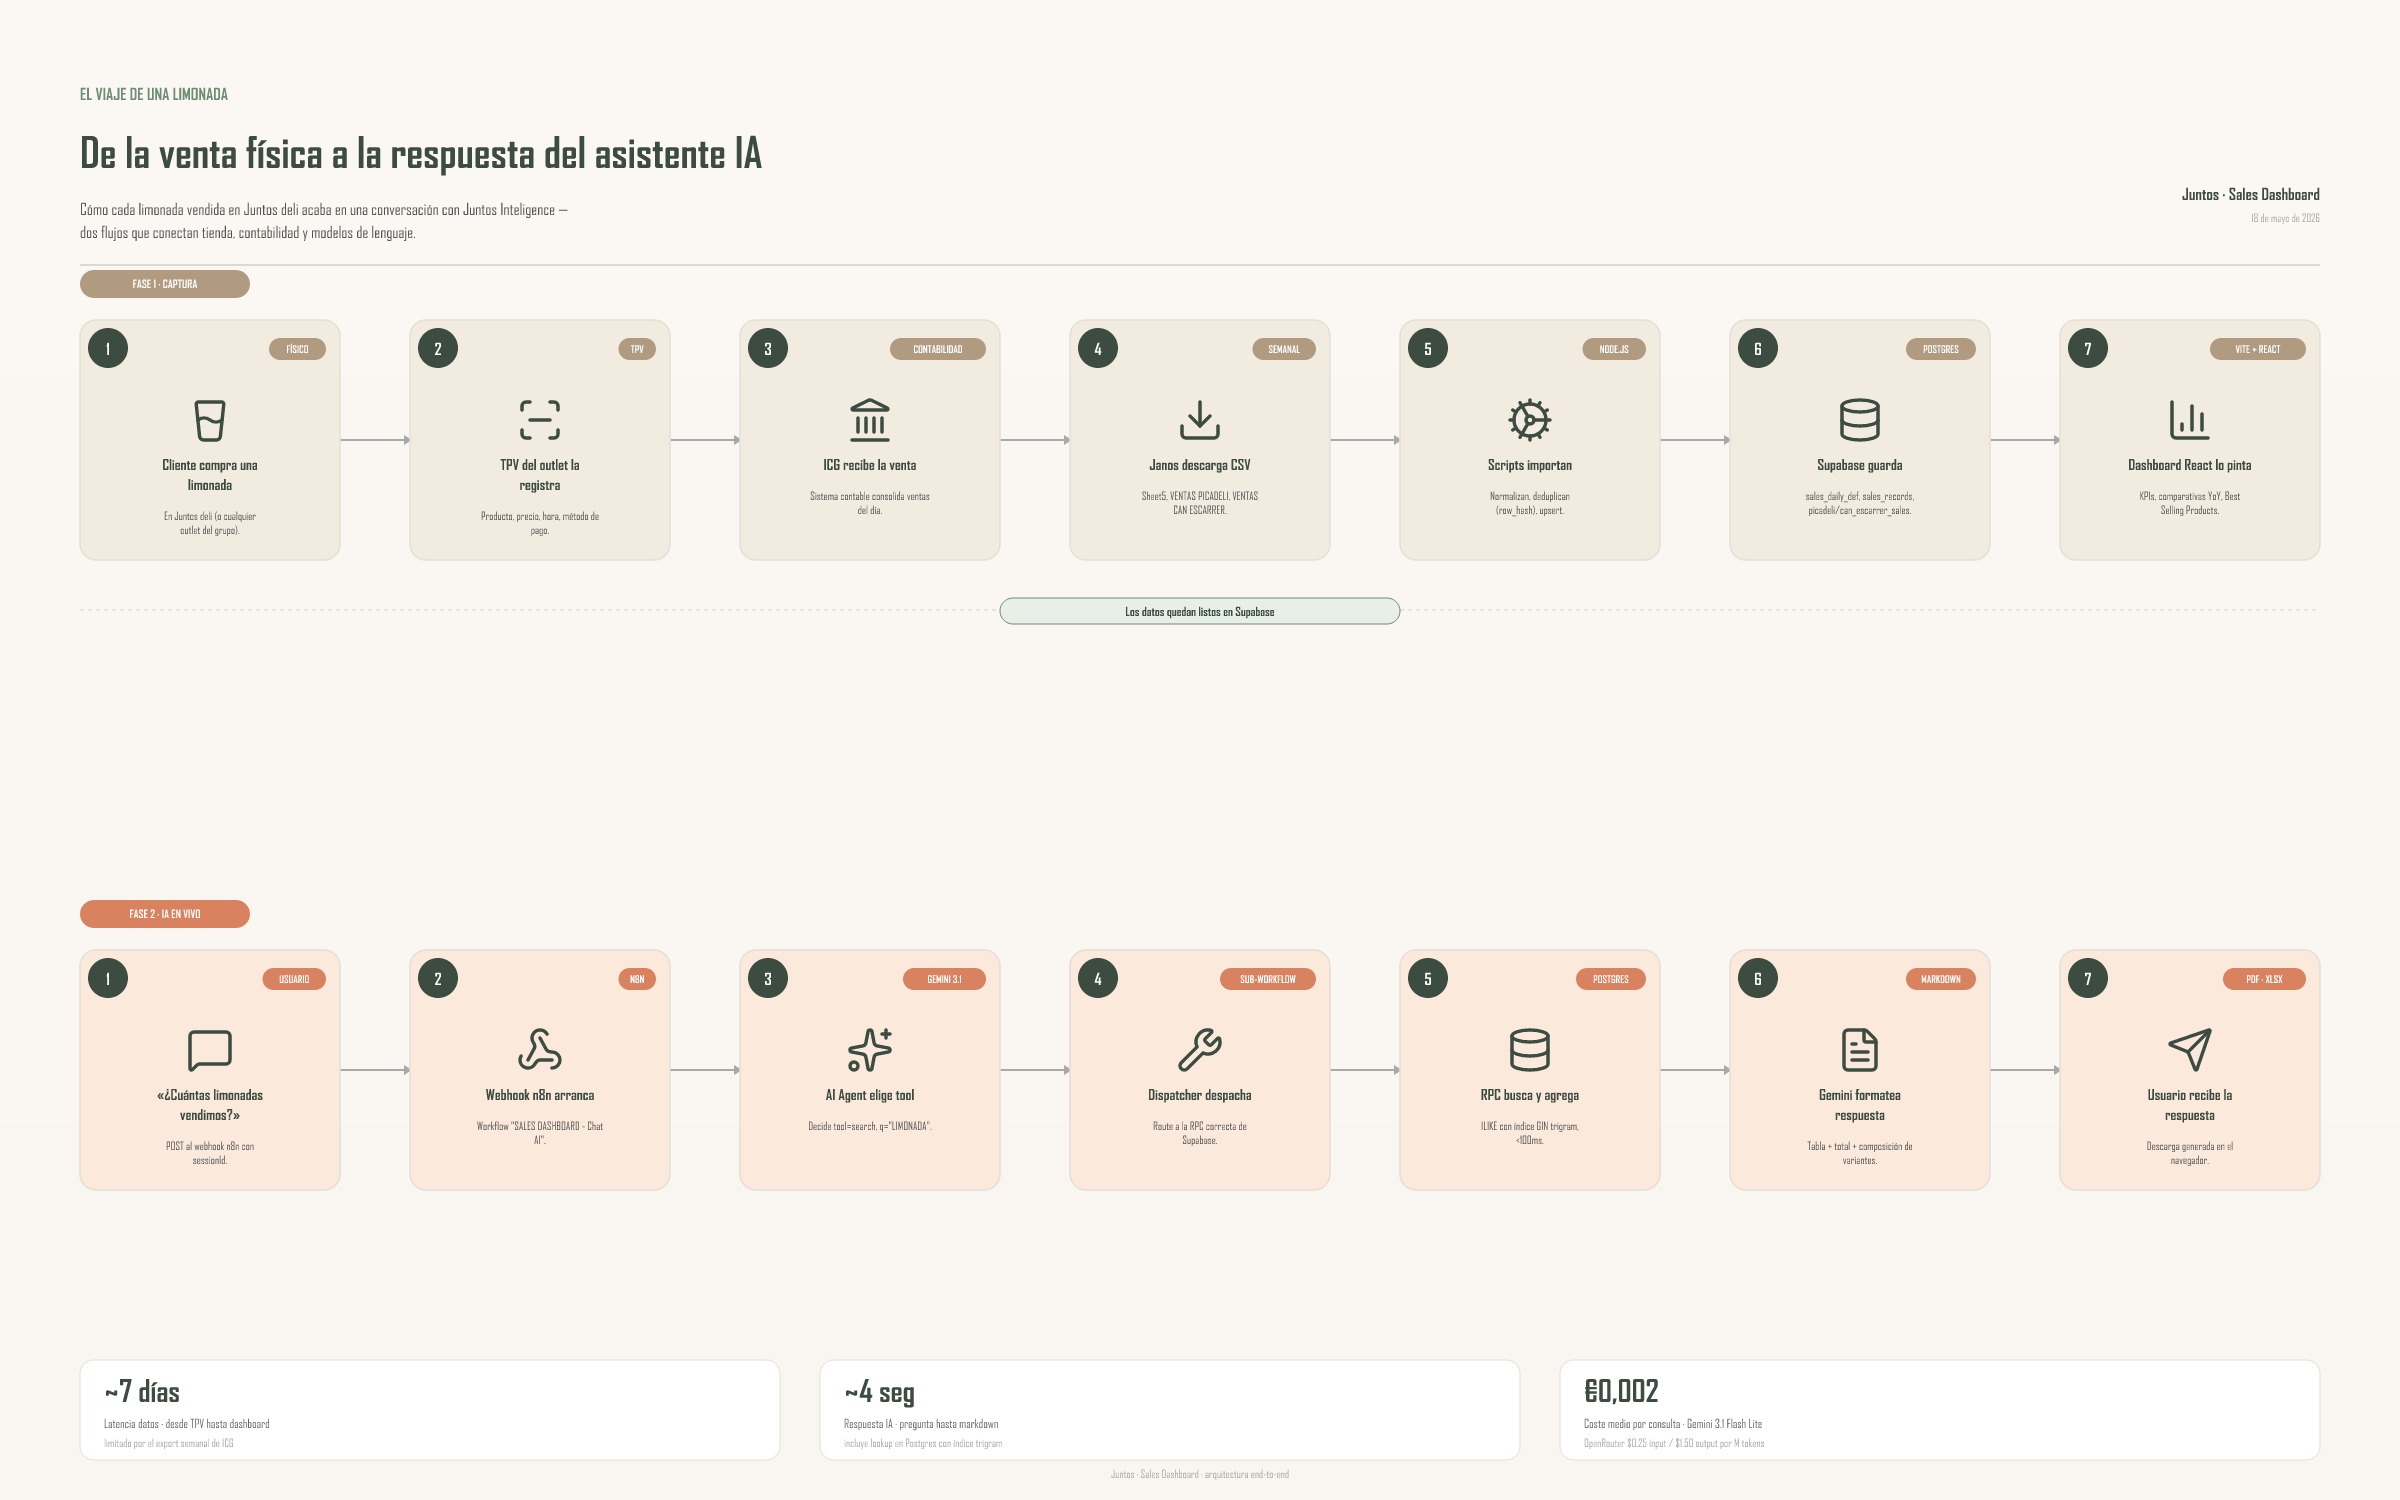
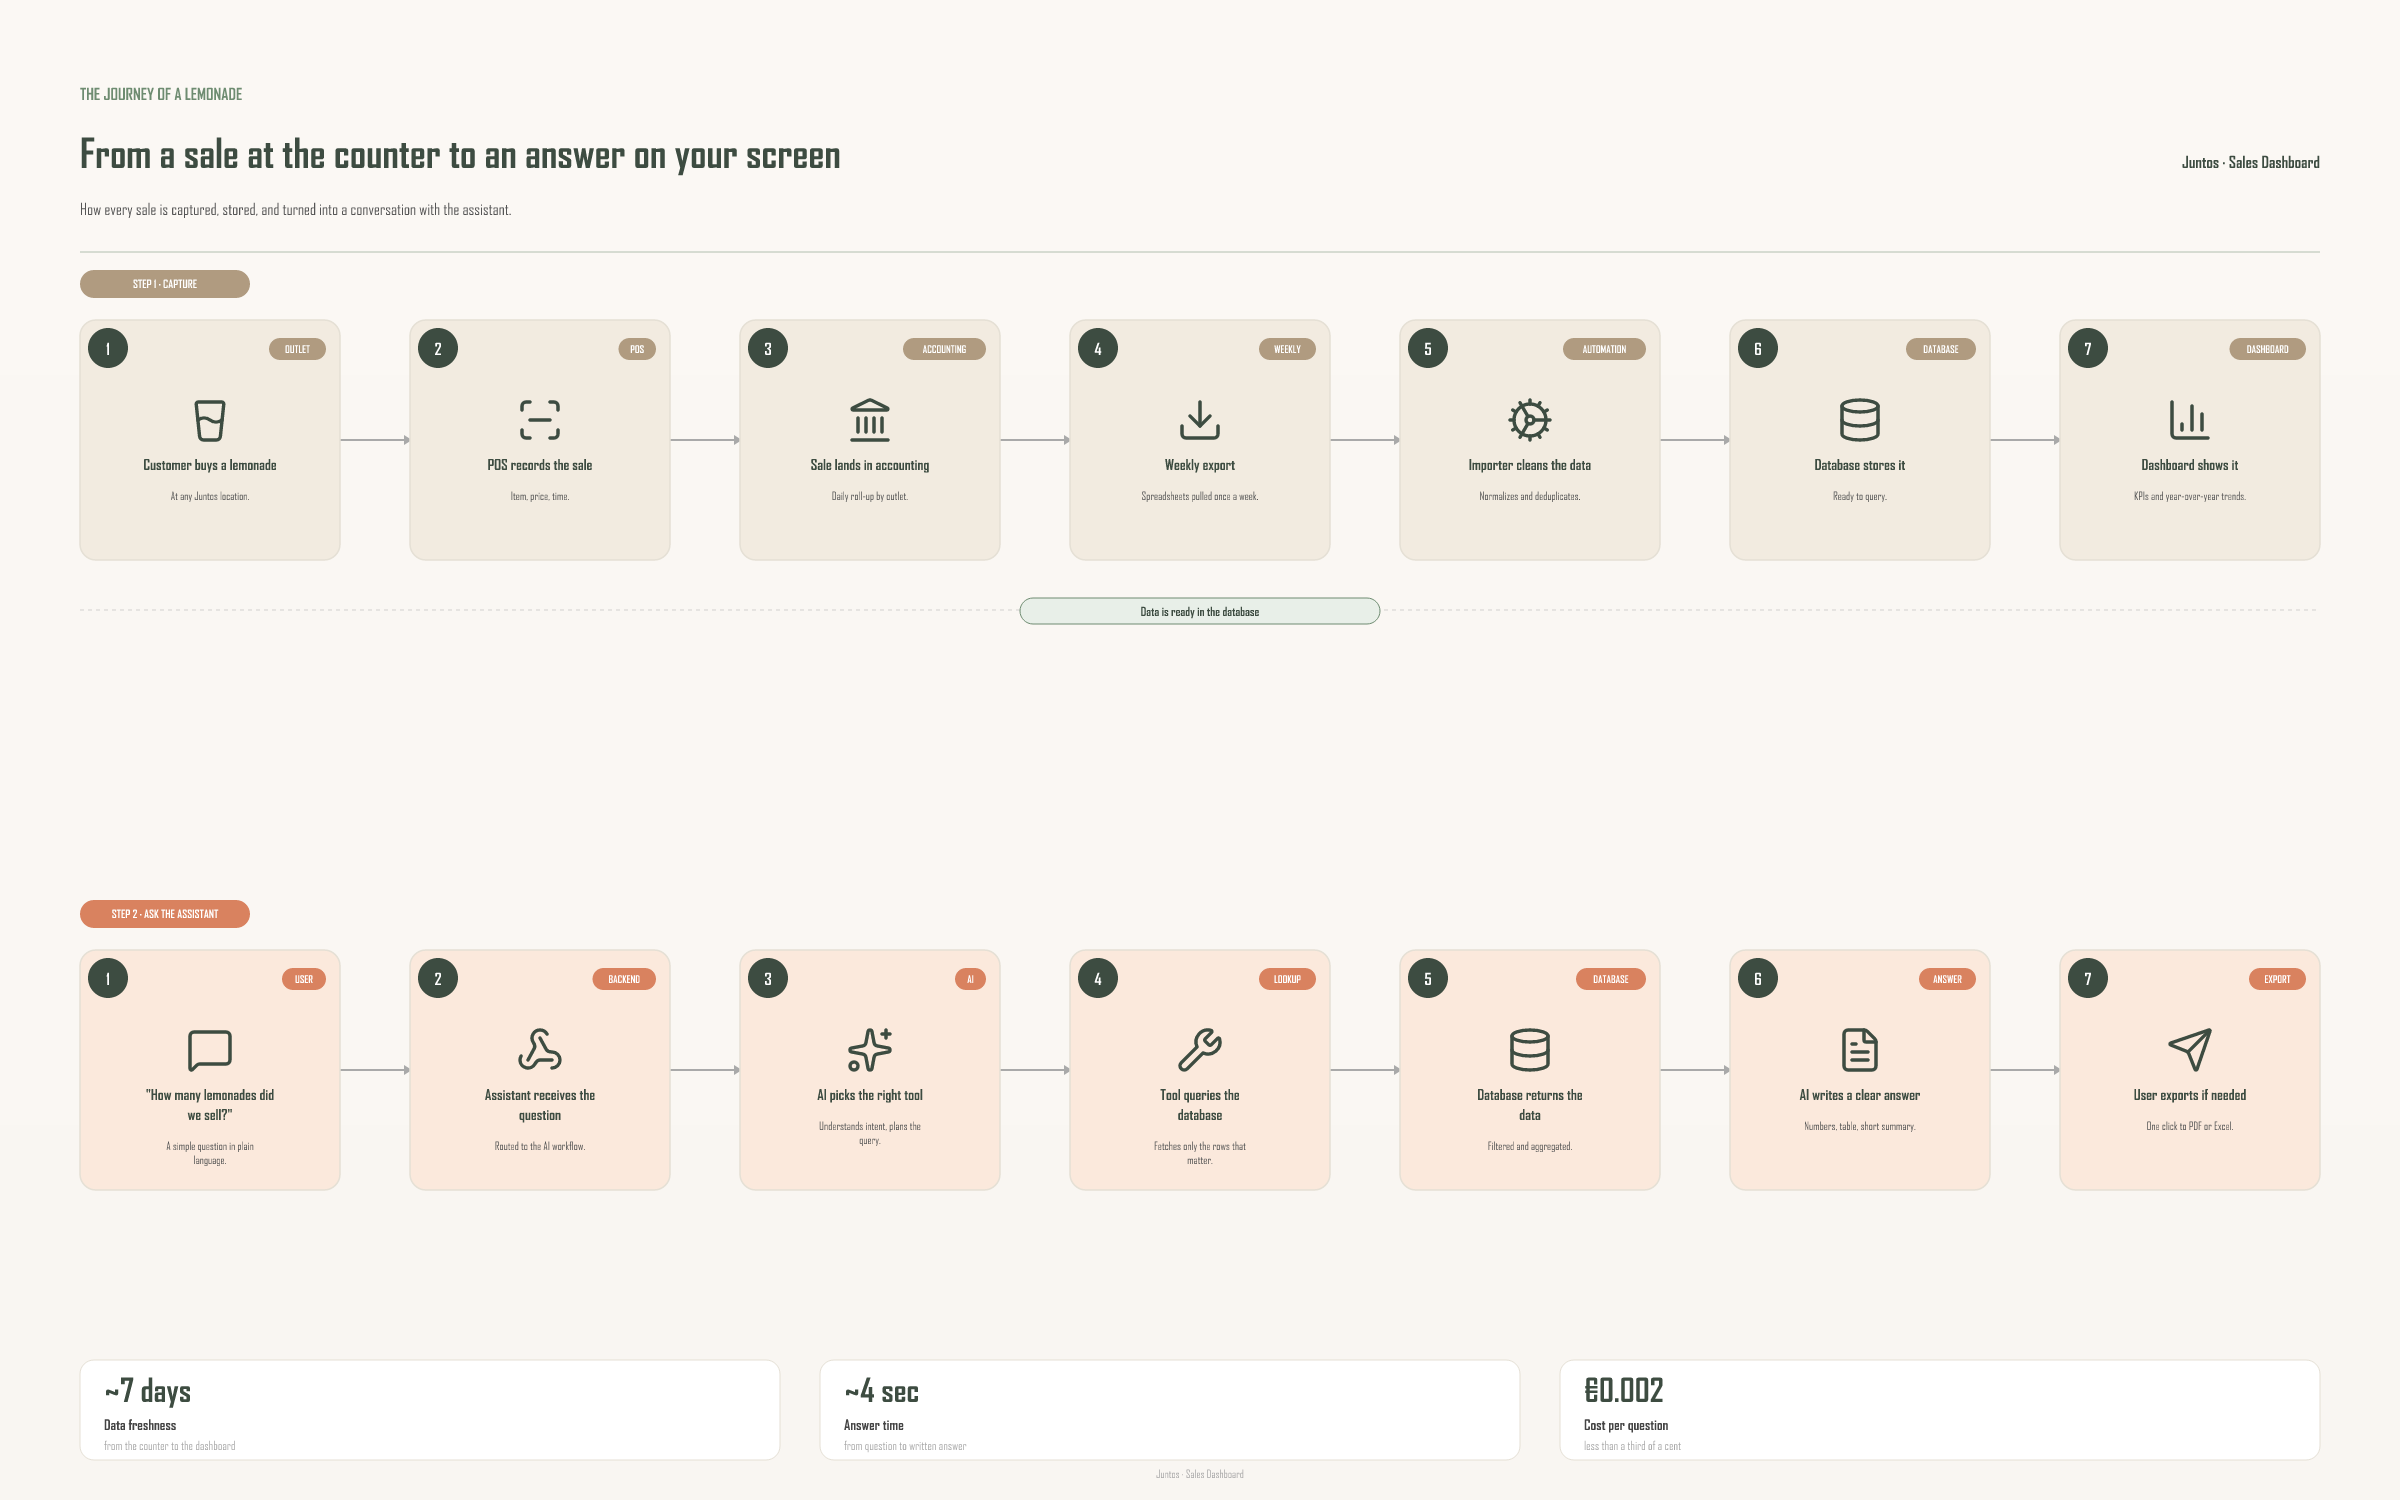
docs(architecture): English, plain-language, no personal names
Simplified the infographic for a non-technical audience: every step
now reads in plain English, no jargon (Postgres → "database", RPC →
"tool queries", n8n → "backend", row_hash/upsert → just "cleans and
deduplicates"), and the export-import step no longer attributes the
work to a person.

Same layout and palette.

diff --git a/scripts/build_architecture_png.js b/scripts/build_architecture_png.js
@@ -25,25 +25,25 @@ const C = {
     cardOrange:'#FBE9DC',
 };
 
-// Each step gets a lucide icon name + its stroke color
+// Plain-English steps, no codebase jargon, no personal names.
 const CAPTURE = [
-    { icon: 'GlassWater',    title: 'Cliente compra una limonada', tech: 'Físico',       desc: 'En Juntos deli (o cualquier outlet del grupo).' },
-    { icon: 'ScanLine',      title: 'TPV del outlet la registra',  tech: 'TPV',          desc: 'Producto, precio, hora, método de pago.' },
-    { icon: 'Landmark',      title: 'ICG recibe la venta',          tech: 'Contabilidad', desc: 'Sistema contable consolida ventas del día.' },
-    { icon: 'Download',      title: 'Janos descarga CSV',           tech: 'Semanal',      desc: 'Sheet5, VENTAS PICADELI, VENTAS CAN ESCARRER.' },
-    { icon: 'Cog',           title: 'Scripts importan',             tech: 'Node.js',      desc: 'Normalizan, deduplican (row_hash), upsert.' },
-    { icon: 'Database',      title: 'Supabase guarda',              tech: 'Postgres',     desc: 'sales_daily_def, sales_records, picadeli/can_escarrer_sales.' },
-    { icon: 'BarChart3',     title: 'Dashboard React lo pinta',     tech: 'Vite + React', desc: 'KPIs, comparativas YoY, Best Selling Products.' },
+    { icon: 'GlassWater', title: 'Customer buys a lemonade', tech: 'Outlet',       desc: 'At any Juntos location.' },
+    { icon: 'ScanLine',   title: 'POS records the sale',     tech: 'POS',          desc: 'Item, price, time.' },
+    { icon: 'Landmark',   title: 'Sale lands in accounting', tech: 'Accounting',   desc: 'Daily roll-up by outlet.' },
+    { icon: 'Download',   title: 'Weekly export',            tech: 'Weekly',       desc: 'Spreadsheets pulled once a week.' },
+    { icon: 'Cog',        title: 'Importer cleans the data', tech: 'Automation',   desc: 'Normalizes and deduplicates.' },
+    { icon: 'Database',   title: 'Database stores it',       tech: 'Database',     desc: 'Ready to query.' },
+    { icon: 'BarChart3',  title: 'Dashboard shows it',       tech: 'Dashboard',    desc: 'KPIs and year-over-year trends.' },
 ];
 
 const CHAT = [
-    { icon: 'MessageSquare', title: '«¿Cuántas limonadas vendimos?»', tech: 'Usuario',      desc: 'POST al webhook n8n con sessionId.' },
-    { icon: 'Webhook',       title: 'Webhook n8n arranca',             tech: 'n8n',          desc: 'Workflow "SALES DASHBOARD - Chat AI".' },
-    { icon: 'Sparkles',      title: 'AI Agent elige tool',             tech: 'Gemini 3.1',   desc: 'Decide tool=search, q="LIMONADA".' },
-    { icon: 'Wrench',        title: 'Dispatcher despacha',             tech: 'Sub-workflow', desc: 'Route a la RPC correcta de Supabase.' },
-    { icon: 'Database',      title: 'RPC busca y agrega',              tech: 'Postgres',     desc: 'ILIKE con índice GIN trigram, <100ms.' },
-    { icon: 'FileText',      title: 'Gemini formatea respuesta',       tech: 'Markdown',     desc: 'Tabla + total + composición de variantes.' },
-    { icon: 'Send',          title: 'Usuario recibe la respuesta',     tech: 'PDF · XLSX',   desc: 'Descarga generada en el navegador.' },
+    { icon: 'MessageSquare', title: '"How many lemonades did we sell?"', tech: 'User',     desc: 'A simple question in plain language.' },
+    { icon: 'Webhook',       title: 'Assistant receives the question',   tech: 'Backend',  desc: 'Routed to the AI workflow.' },
+    { icon: 'Sparkles',      title: 'AI picks the right tool',           tech: 'AI',       desc: 'Understands intent, plans the query.' },
+    { icon: 'Wrench',        title: 'Tool queries the database',         tech: 'Lookup',   desc: 'Fetches only the rows that matter.' },
+    { icon: 'Database',      title: 'Database returns the data',         tech: 'Database', desc: 'Filtered and aggregated.' },
+    { icon: 'FileText',      title: 'AI writes a clear answer',          tech: 'Answer',   desc: 'Numbers, table, short summary.' },
+    { icon: 'Send',          title: 'User exports if needed',            tech: 'Export',   desc: 'One click to PDF or Excel.' },
 ];
 
 // ─── Helpers ────────────────────────────────────────────────────────────────
@@ -183,47 +183,45 @@ function buildSvg() {
   <rect width="100%" height="100%" fill="url(#bgGrad)"/>
 
   <!-- Header -->
-  ${text(MARGIN, 100, 'EL VIAJE DE UNA LIMONADA', { size: 16, weight: '700', color: C.accent })}
-  ${text(MARGIN, 168, 'De la venta física a la respuesta del asistente IA', { size: 42, weight: '600', color: C.primary, family: 'Lora, serif' })}
-  ${text(MARGIN, 215, 'Cómo cada limonada vendida en Juntos deli acaba en una conversación con Juntos Inteligence —', { size: 16, color: '#555' })}
-  ${text(MARGIN, 238, 'dos flujos que conectan tienda, contabilidad y modelos de lenguaje.', { size: 16, color: '#555' })}
+  ${text(MARGIN, 100, 'THE JOURNEY OF A LEMONADE', { size: 16, weight: '700', color: C.accent })}
+  ${text(MARGIN, 168, 'From a sale at the counter to an answer on your screen', { size: 40, weight: '600', color: C.primary, family: 'Lora, serif' })}
+  ${text(MARGIN, 215, 'How every sale is captured, stored, and turned into a conversation with the assistant.', { size: 16, color: '#555' })}
 
-  <line x1="${MARGIN}" y1="265" x2="${W - MARGIN}" y2="265" stroke="${C.accent}" stroke-width="1.5" opacity="0.35"/>
-  ${text(W - MARGIN, 200, 'Juntos · Sales Dashboard', { size: 16, weight: '600', color: C.primary, family: 'Lora, serif', anchor: 'end' })}
-  ${text(W - MARGIN, 222, new Date().toLocaleDateString('es-ES', { day: '2-digit', month: 'long', year: 'numeric' }), { size: 11, color: C.muted, anchor: 'end' })}
+  <line x1="${MARGIN}" y1="252" x2="${W - MARGIN}" y2="252" stroke="${C.accent}" stroke-width="1.5" opacity="0.35"/>
+  ${text(W - MARGIN, 168, 'Juntos · Sales Dashboard', { size: 16, weight: '600', color: C.primary, family: 'Lora, serif', anchor: 'end' })}
 
   <!-- CAPTURE timeline -->
-  ${drawTimeline(CAPTURE, TIMELINE_TOP, PALETTES.capture, 'FASE 1 · CAPTURA')}
+  ${drawTimeline(CAPTURE, TIMELINE_TOP, PALETTES.capture, 'STEP 1 · CAPTURE')}
 
   <!-- Bridge -->
   <g>
     <line x1="${MARGIN}" y1="${TIMELINE_TOP + 290}" x2="${W - MARGIN}" y2="${TIMELINE_TOP + 290}" stroke="${C.muted}" stroke-dasharray="4,4" stroke-width="1" opacity="0.5"/>
-    <rect x="${W/2 - 200}" y="${TIMELINE_TOP + 278}" width="400" height="26" rx="13" ry="13" fill="${C.cardGreen}" stroke="${C.accent}"/>
-    ${text(W/2, TIMELINE_TOP + 296, 'Los datos quedan listos en Supabase', { size: 12, weight: '600', color: C.primary, anchor: 'middle' })}
+    <rect x="${W/2 - 180}" y="${TIMELINE_TOP + 278}" width="360" height="26" rx="13" ry="13" fill="${C.cardGreen}" stroke="${C.accent}"/>
+    ${text(W/2, TIMELINE_TOP + 296, 'Data is ready in the database', { size: 12, weight: '600', color: C.primary, anchor: 'middle' })}
   </g>
 
   <!-- CHAT timeline -->
-  ${drawTimeline(CHAT, TIMELINE_BOT, PALETTES.chat, 'FASE 2 · IA EN VIVO')}
+  ${drawTimeline(CHAT, TIMELINE_BOT, PALETTES.chat, 'STEP 2 · ASK THE ASSISTANT')}
 
   <!-- Footer KPIs -->
   <g transform="translate(${MARGIN}, ${H - 140})">
     <rect x="0"    y="0" width="700" height="100" rx="14" ry="14" fill="#fff" stroke="${C.border}"/>
-    ${text(24, 42, '~7 días', { size: 30, weight: '700', color: C.primary, family: 'Lora, serif' })}
-    ${text(24, 68, 'Latencia datos · desde TPV hasta dashboard', { size: 12, color: '#666' })}
-    ${text(24, 87, 'limitado por el export semanal de ICG', { size: 11, color: C.muted })}
+    ${text(24, 42, '~7 days', { size: 32, weight: '700', color: C.primary, family: 'Lora, serif' })}
+    ${text(24, 70, 'Data freshness', { size: 14, weight: '600', color: '#444' })}
+    ${text(24, 90, 'from the counter to the dashboard', { size: 12, color: C.muted })}
 
     <rect x="740"  y="0" width="700" height="100" rx="14" ry="14" fill="#fff" stroke="${C.border}"/>
-    ${text(764, 42, '~4 seg', { size: 30, weight: '700', color: C.primary, family: 'Lora, serif' })}
-    ${text(764, 68, 'Respuesta IA · pregunta hasta markdown', { size: 12, color: '#666' })}
-    ${text(764, 87, 'incluye lookup en Postgres con índice trigram', { size: 11, color: C.muted })}
+    ${text(764, 42, '~4 sec', { size: 32, weight: '700', color: C.primary, family: 'Lora, serif' })}
+    ${text(764, 70, 'Answer time', { size: 14, weight: '600', color: '#444' })}
+    ${text(764, 90, 'from question to written answer', { size: 12, color: C.muted })}
 
     <rect x="1480" y="0" width="760" height="100" rx="14" ry="14" fill="#fff" stroke="${C.border}"/>
-    ${text(1504, 42, '€0,002', { size: 30, weight: '700', color: C.primary, family: 'Lora, serif' })}
-    ${text(1504, 68, 'Coste medio por consulta · Gemini 3.1 Flash Lite', { size: 12, color: '#666' })}
-    ${text(1504, 87, 'OpenRouter $0.25 input / $1.50 output por M tokens', { size: 11, color: C.muted })}
+    ${text(1504, 42, '€0.002', { size: 32, weight: '700', color: C.primary, family: 'Lora, serif' })}
+    ${text(1504, 70, 'Cost per question', { size: 14, weight: '600', color: '#444' })}
+    ${text(1504, 90, 'less than a third of a cent', { size: 12, color: C.muted })}
   </g>
 
-  ${text(W / 2, H - 22, 'Juntos · Sales Dashboard · arquitectura end-to-end', { size: 11, color: C.muted, anchor: 'middle' })}
+  ${text(W / 2, H - 22, 'Juntos · Sales Dashboard', { size: 11, color: C.muted, anchor: 'middle' })}
 </svg>`;
 }
 